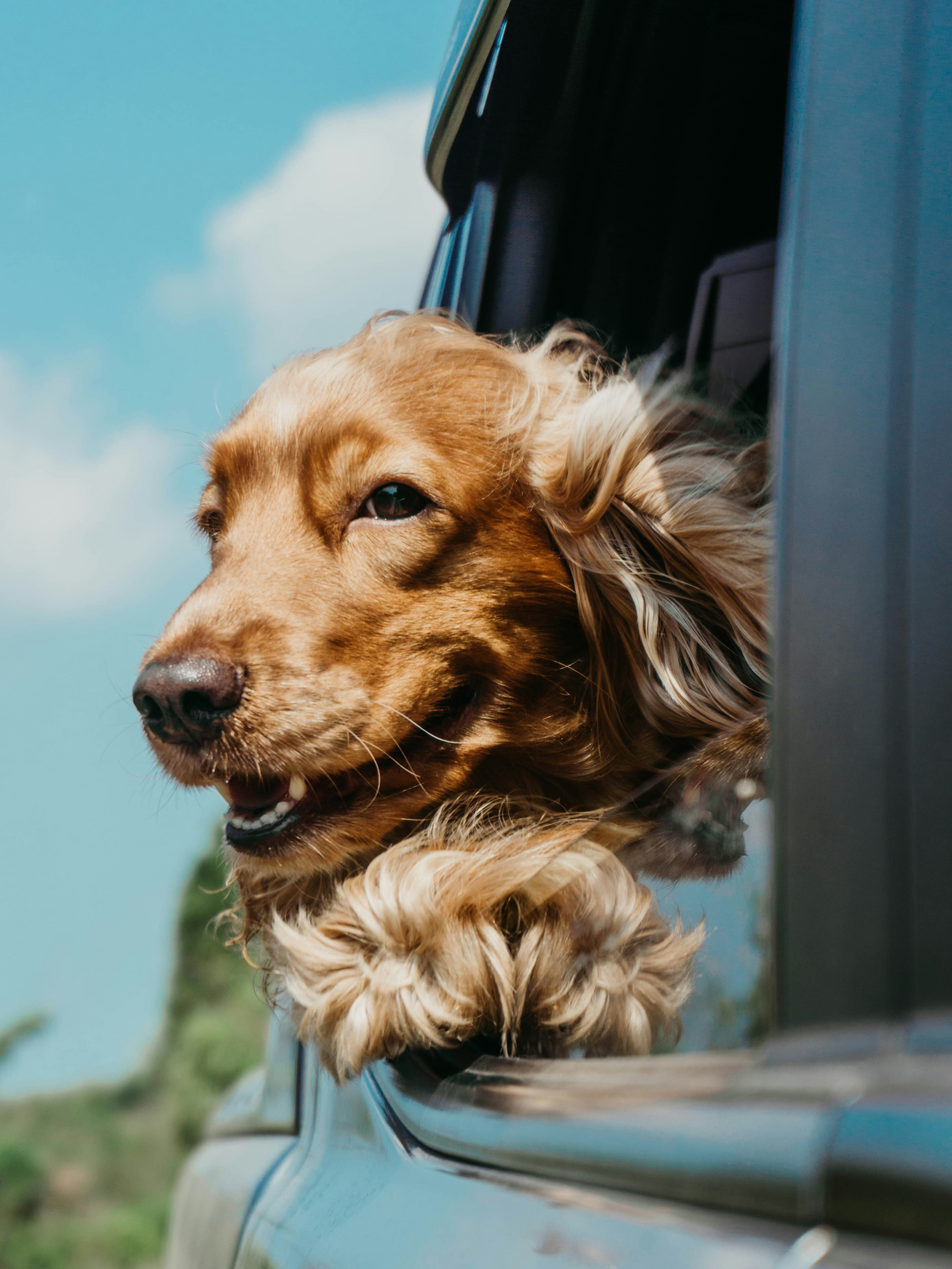
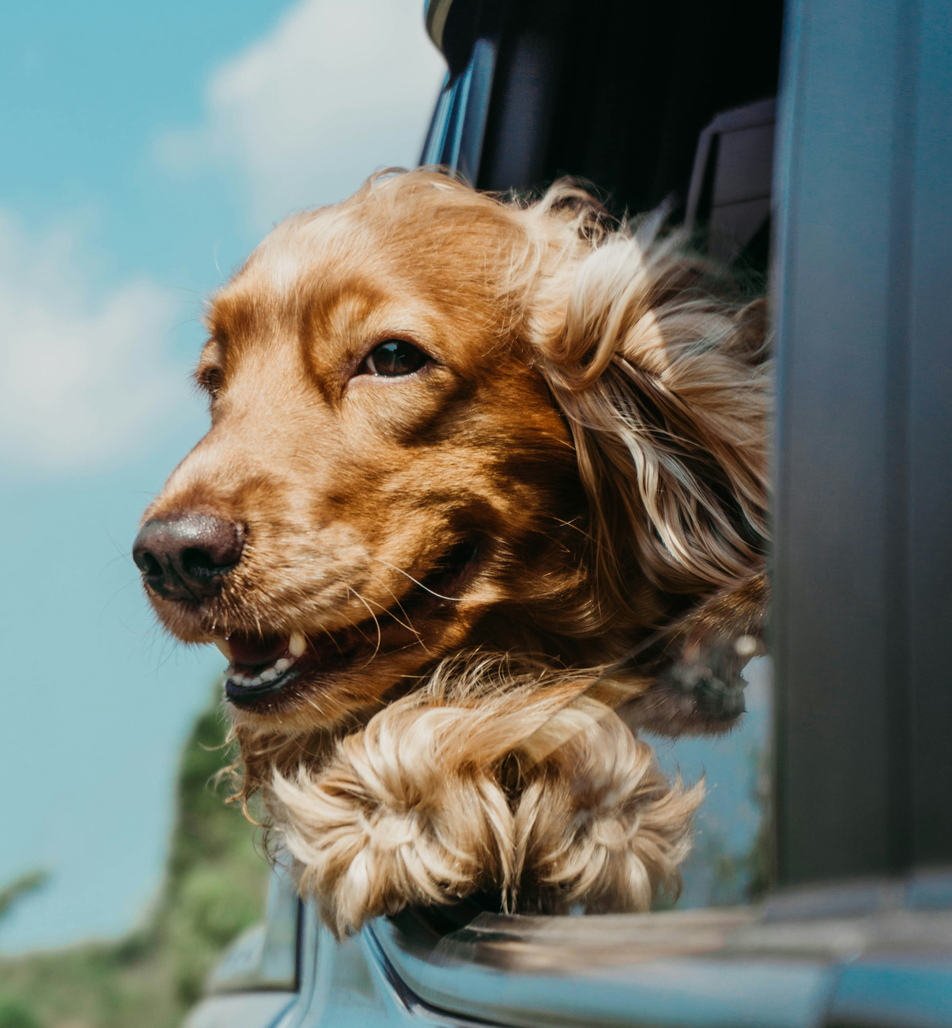
continue css

diff --git a/client/src/pages/HomePage.tsx b/client/src/pages/HomePage.tsx
@@ -98,26 +98,30 @@ function HomePage() {
 
         <section className="professionals">
           <h1>L’allié numérique des experts de la santé animale</h1>
-          <p>
-            Vétérinaires et ASV, optimisez l'observance de vos soins grâce à
-            Pet&Vet, l'outil numérique gratuit qui connecte votre expertise au
-            quotidien des propriétaires.
-          </p>
-          <p>
-            Plus qu’un carnet de santé, l’application vous permet d'ajouter et
-            de consulter l'historique des visites, tout en gardant un œil sur le
-            suivi de chaque animal.
-          </p>
-          <p>
-            En coordonnant les traitements et les rappels directement avec vos
-            clients, vous modernisez votre pratique et garantissez une meilleure
-            réussite thérapeutique.
-          </p>
-          <img
-            src="/images/dog-plush.jpg"
-            alt="Chien avec un doudou"
-            width="300"
-          />
+          <div className="professionals-text-and-image">
+            <div className="professionals-text">
+              <p>
+                Vétérinaires et ASV, optimisez l'observance de vos soins grâce à
+                Pet&Vet, l'outil numérique gratuit qui connecte votre expertise
+                au quotidien des propriétaires.
+              </p>
+              <p>
+                Plus qu’un carnet de santé, l’application vous permet d'ajouter
+                et de consulter l'historique des visites, tout en gardant un œil
+                sur le suivi de chaque animal.
+              </p>
+              <p>
+                En coordonnant les traitements et les rappels directement avec
+                vos clients, vous modernisez votre pratique et garantissez une
+                meilleure réussite thérapeutique.
+              </p>
+            </div>
+            <img
+              src="/images/dog-plush.jpg"
+              alt="Chien avec un doudou"
+              width="300"
+            />
+          </div>
         </section>
 
         <section className="associations">
@@ -125,36 +129,40 @@ function HomePage() {
           <h2>
             L’outil gratuit pour optimiser la gestion de votre association
           </h2>
-          <p>
-            Gagnez en efficacité grâce à notre plateforme web dédiée qui
-            centralise tous les carnets de santé numériques de vos animaux en
-            attente d'adoption.
-          </p>
-          <img
-            src="/images/dog-window.jpg"
-            alt="Chien regardant par la fenêtre"
-            width="300"
-          />
+          <div className="associations-text-and-image">
+            <div className="associations-text">
+              <p>
+                Gagnez en efficacité grâce à notre plateforme web dédiée qui
+                centralise tous les carnets de santé numériques de vos animaux
+                en attente d'adoption.
+              </p>
+            </div>
+            <img
+              src="/images/dog-window.jpg"
+              alt="Chien regardant par la fenêtre"
+              width="300"
+            />
+          </div>
         </section>
         <section className="buttons-bottom">
-          <button type="button">
-            <img src="/images/paw.png" alt="Pattoune Icon" width="20" />
-            Contacts utiles
-          </button>
-          <button type="button">
-            <img src="/images/paw.png" alt="Pattoune Icon" width="20" />
-            Me connecter
-          </button>
-          <button type="button">
-            <img src="/images/paw.png" alt="Pattoune Icon" width="20" />
-            M'inscrire
-          </button>
+          <div className="button-contacts-utile">
+            <button type="button" className="button-homePage">
+              <img src="/images/paw.png" alt="Pattoune Icon" width="20" />
+              Contacts utiles
+            </button>
+          </div>
+          <div className="button-register-login">
+            <button type="button" className="button-homePage">
+              <img src="/images/paw.png" alt="Pattoune Icon" width="20" />
+              Me connecter
+            </button>
+            <button type="button" className="button-homePage">
+              <img src="/images/paw.png" alt="Pattoune Icon" width="20" />
+              M'inscrire
+            </button>
+          </div>
         </section>
       </main>
-      <footer>
-        <p>© 2026 PetVet. Tous droits réservés.</p>
-        <p>Made with ❤ by Wilders</p>
-      </footer>
     </>
   );
 }

diff --git a/client/src/assets/styles/homePage.css b/client/src/assets/styles/homePage.css
@@ -150,9 +150,8 @@ main .individuals p {
 }
 main .professionals {
   background-color: var(--main-color);
-  background-image: url(/images/paws-path-reverse.png);
+  background-image: url(/images/paws-path.png);
   background-repeat: no-repeat;
-  background-position-x: right;
   padding: 2rem 3rem;
 }
 main .professionals h1 {
@@ -160,4 +159,101 @@ main .professionals h1 {
   font-size: 2.5rem;
   color: var(--vet-color);
   text-align: right;
+}
+main .professionals .professionals-text-and-image {
+  display: flex;
+  flex-direction: row;
+  align-items: center;
+  justify-content: center;
+  gap: 2rem;
+}
+main .professionals p {
+  font-family: var(--font-text);
+  font-size: 1.7rem;
+  color: var(--text-color);
+  margin-bottom: 1.5rem;
+  padding-left: 8rem;
+  padding-top: 2rem;
+  text-align: left;
+}
+main .associations {
+  background-color: #faecdb;
+  background-image: url(/images/paws-path-reverse.png);
+  background-repeat: no-repeat;
+  background-position: right;
+  padding: 2rem 3rem;
+}
+main .associations h1 {
+  font-family: var(--font-logo);
+  font-size: 2.5rem;
+  color: var(--owner-color);
+  text-align: left;
+}
+main .associations h2 {
+  font-family: var(--font-logo);
+  font-size: 1.75rem;
+  color: var(--text-color);
+  margin: 1.5rem 0;
+}
+main .associations p {
+  font-family: var(--font-text);
+  font-size: 1.7rem;
+  color: var(--text-color);
+  margin-bottom: 1.5rem;
+  padding-right: 8rem;
+  padding-top: 2rem;
+  text-align: left;
+}
+main .associations .associations-text-and-image {
+  display: flex;
+  flex-direction: row-reverse;
+  align-items: center;
+  justify-content: center;
+  gap: 1.8rem;
+  padding: 0 10rem;
+}
+main .associations .associations-text-and-image .associations-text {
+  max-width: 600px;
+}
+main .buttons-bottom {
+  display: flex;
+  justify-content: center;
+  gap: 2rem;
+  padding: 5rem 0;
+  background-color: var(--main-color);
+  flex-direction: column;
+  background-image: url(/images/paws-path.png);
+}
+main .buttons-bottom .button-homePage {
+  gap: 15px;
+  width: 15rem;
+  height: 4rem;
+  font-size: 1rem;
+  background-color: #ffffff;
+  border: none;
+  padding: 10px 15px;
+  border-radius: 15px;
+  cursor: pointer;
+  display: flex;
+  align-items: center;
+  box-shadow: 2px 2px 5px rgba(0, 0, 0, 0.1);
+  color: var(--text-color);
+  font-family: var(--font-text);
+  align-self: center;
+  justify-content: center;
+}
+main .buttons-bottom .button-homePage:hover {
+  background-color: #f0f0f0;
+}
+main .buttons-bottom .button-contacts-utile {
+  display: flex;
+  align-items: center;
+  justify-content: center;
+  flex-direction: column;
+}
+main .buttons-bottom .button-register-login {
+  display: flex;
+  align-items: center;
+  justify-content: center;
+  gap: 2rem;
 }
